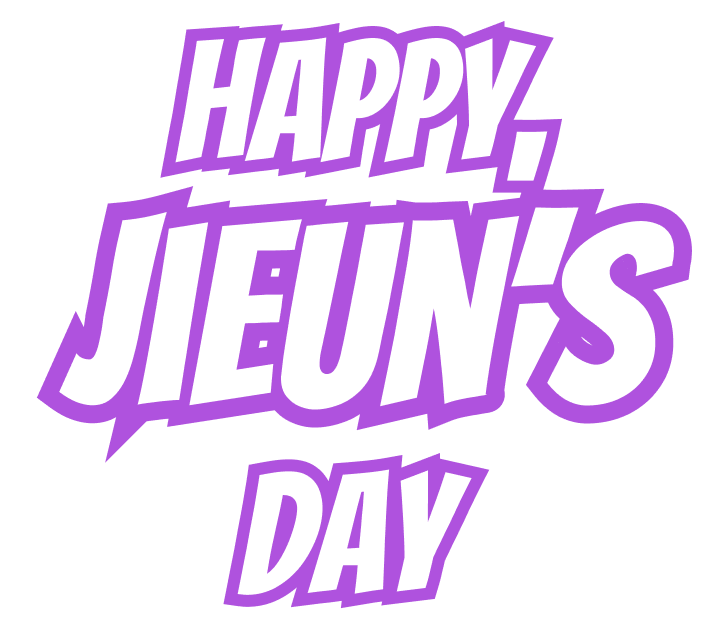
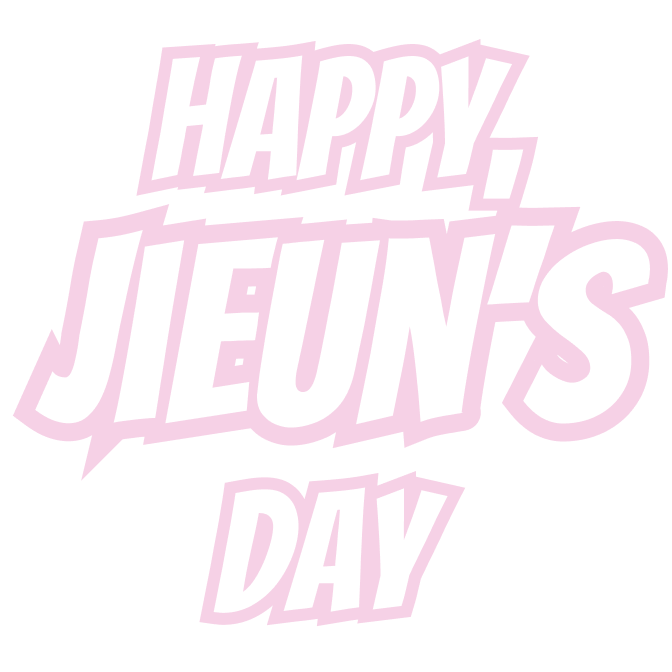
[Style] Change main style

diff --git a/src/pages/Home/Home.module.css b/src/pages/Home/Home.module.css
@@ -31,8 +31,8 @@
 .button {
   width: 100%;
   max-width: 568px;
-  background-color: var(--primary-color);
-  color: var(--white);
+  background-color: var(--secondary-color);
+  color: var(--black);
   display: flex;
   justify-content: center;
   align-items: center;

diff --git a/src/pages/Canvas/Canvas.tsx b/src/pages/Canvas/Canvas.tsx
@@ -36,8 +36,8 @@ const Canvas: React.FC = () => {
       y: 0,
       z: 0,
       rotation: 0,
-      width: 212,
-      height: 212,
+      width: 120,
+      height: 120,
       disabled: true,
       data: {
         type: "image",

diff --git a/src/styles/global.css b/src/styles/global.css
@@ -21,7 +21,8 @@ html {
 }
 
 :root {
-  --primary-color: #AF52DE;
+  --primary-color: #FF9CD4;
+  --secondary-color: #F8F57D;
   --background-color: #FCFCFC;
   --background-dark-color: #EDEDEF;
   --black: #232323;
